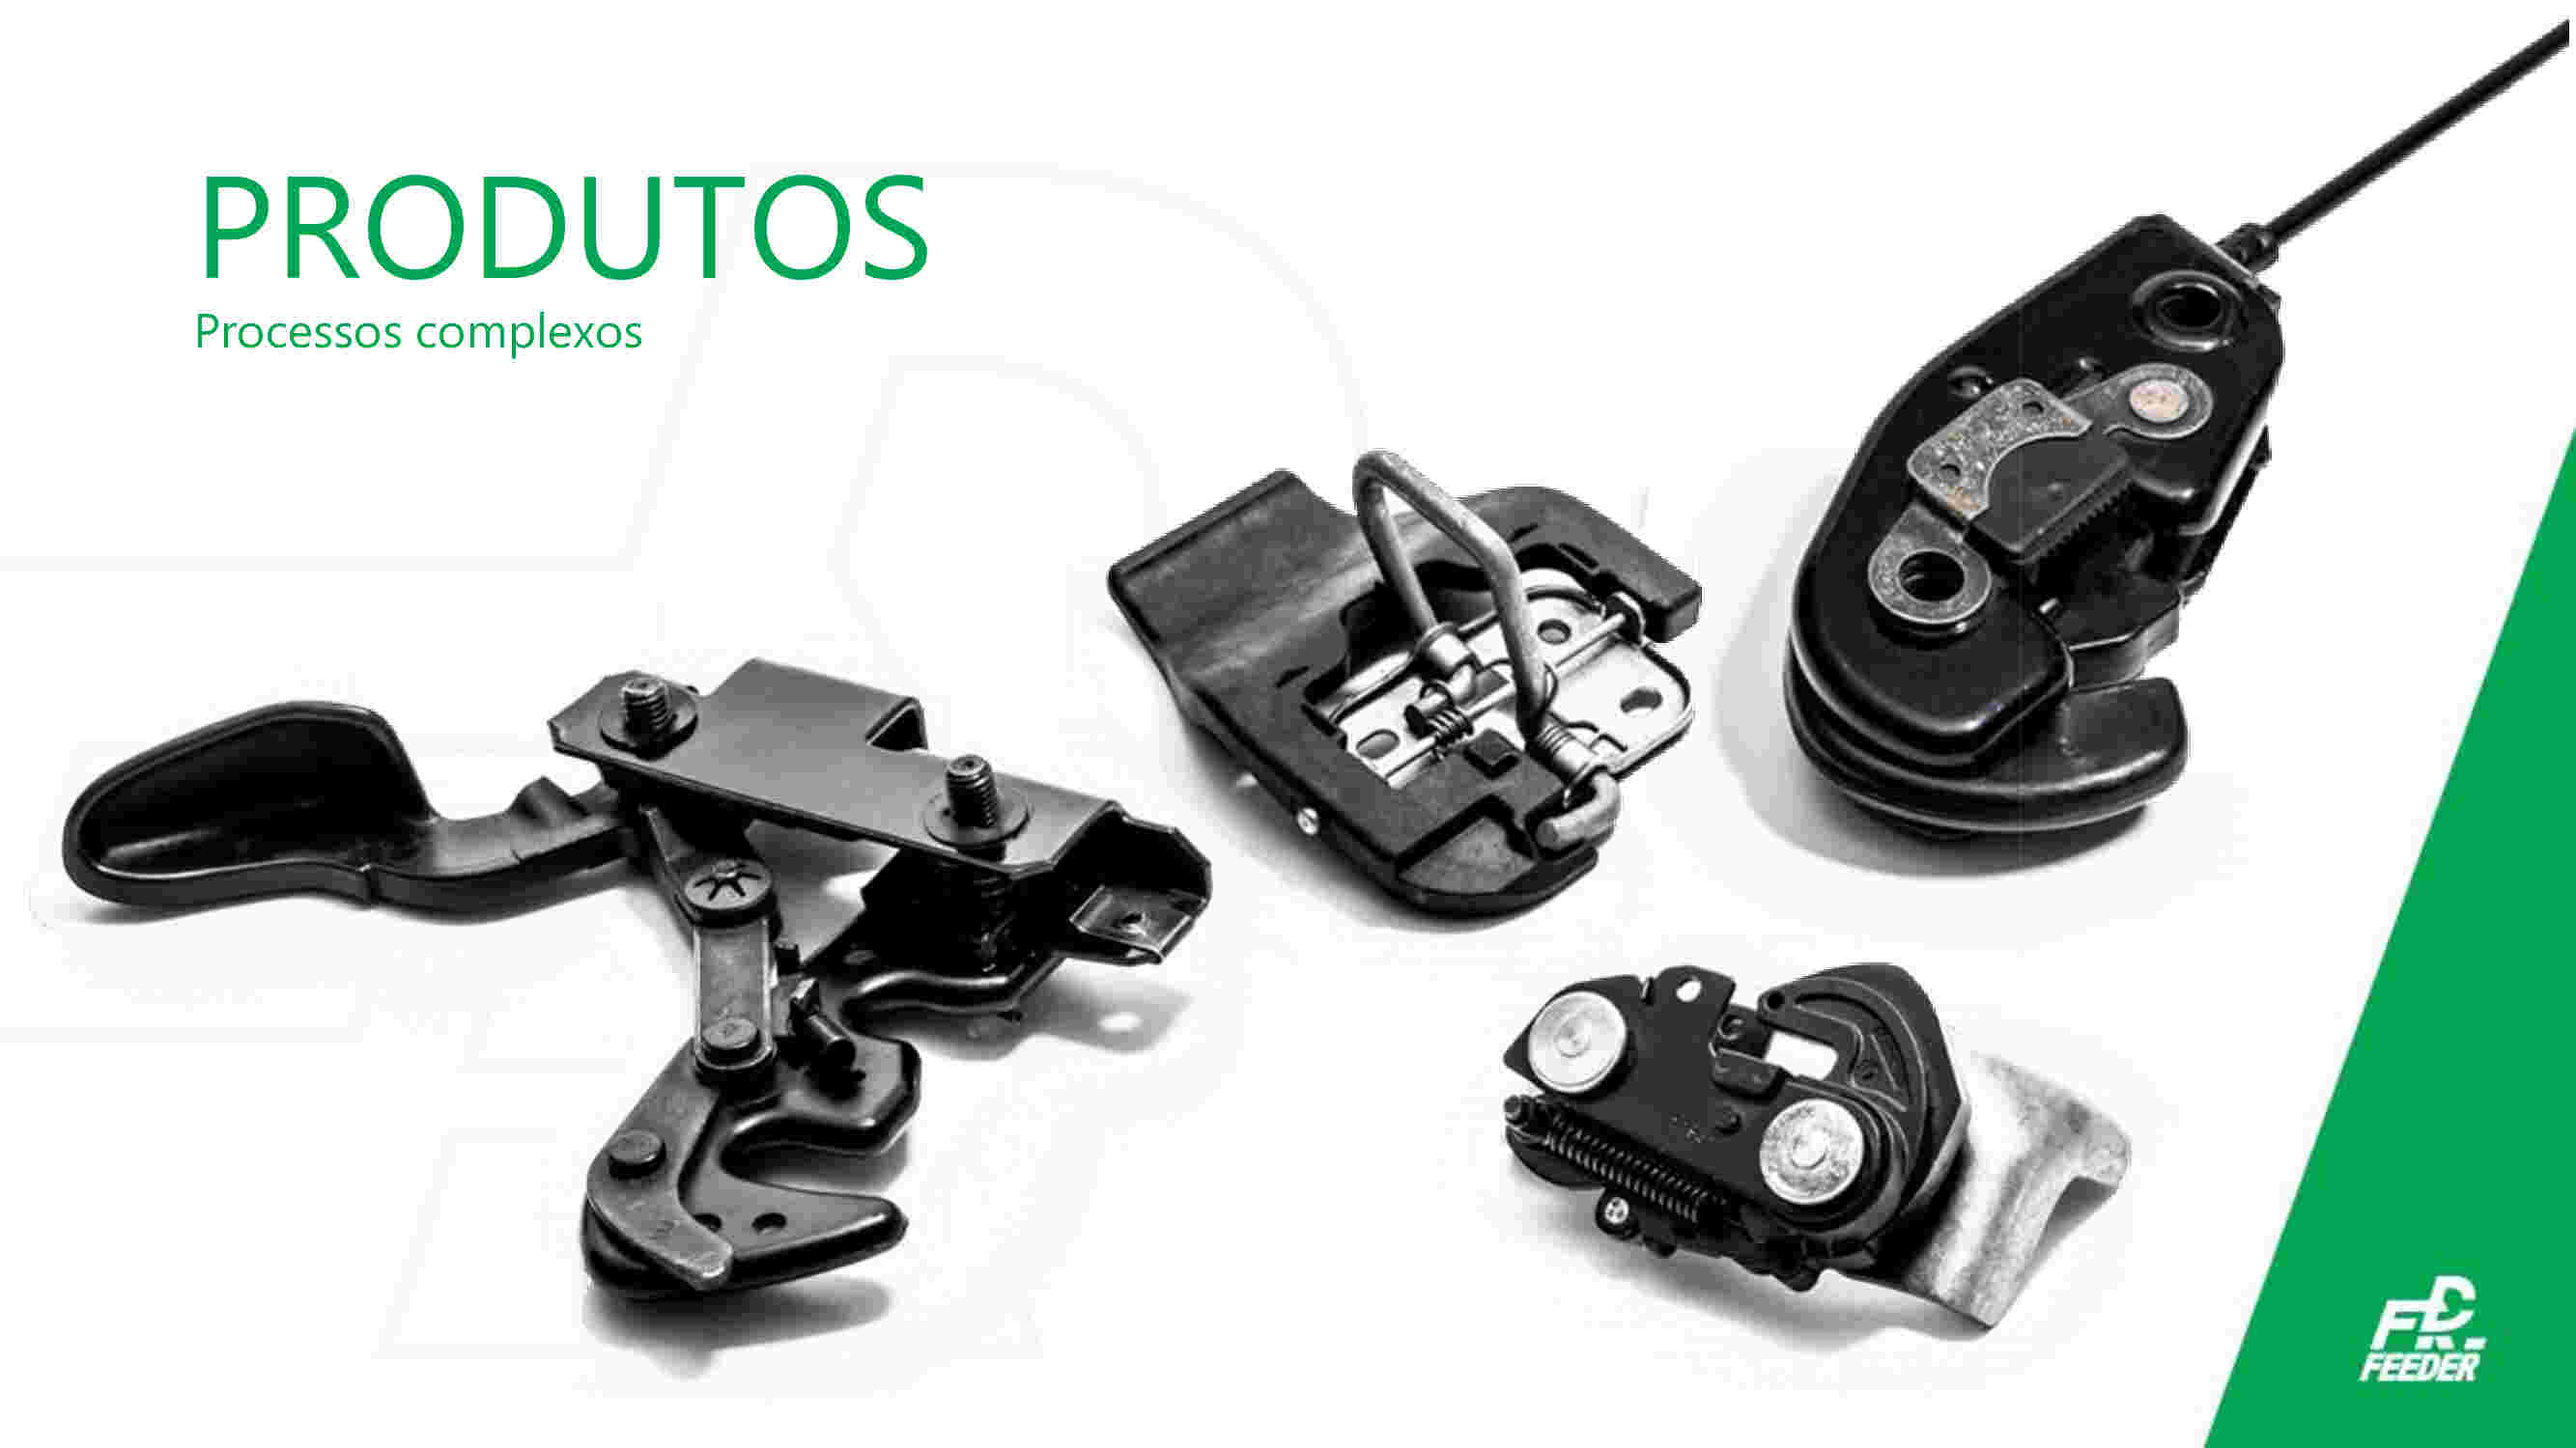
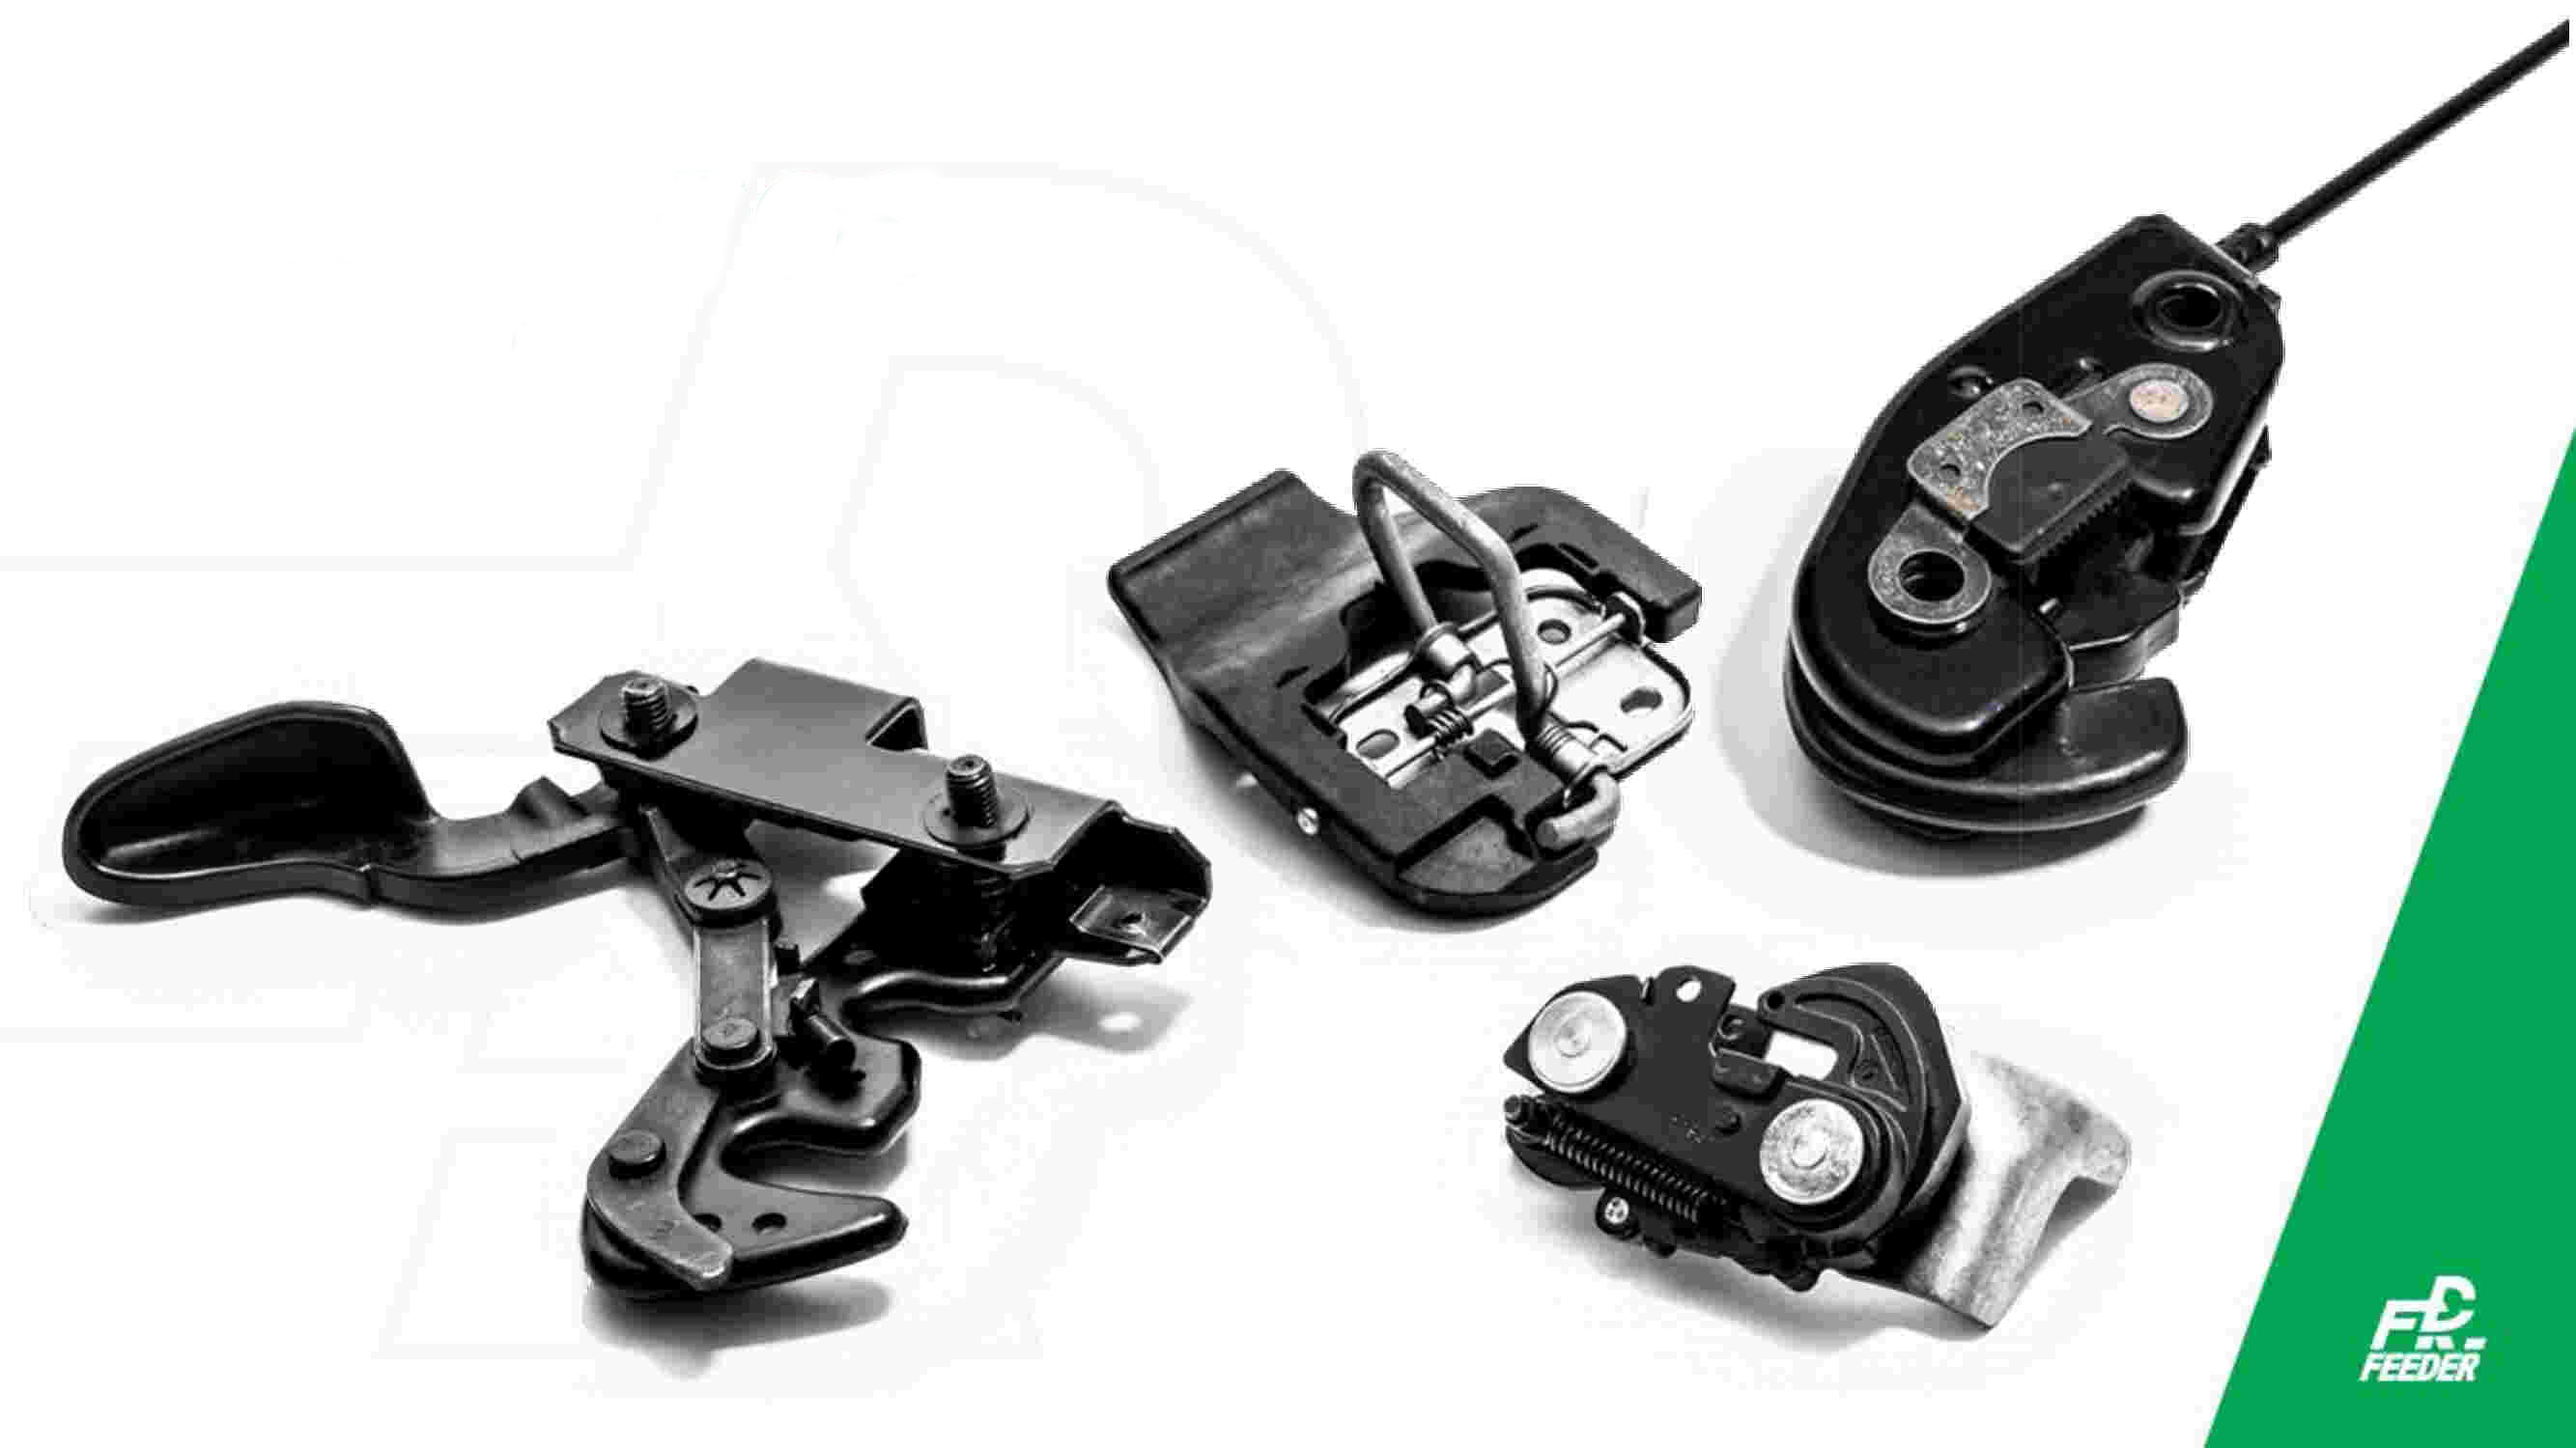
English images

Changed region(s): [[0.0622, 0.1227, 0.3735, 0.2453]]

diff --git a/frontend/src/components/Produtos.vue b/frontend/src/components/Produtos.vue
@@ -6,73 +6,131 @@
     <div class="py-4 px-2 md:px-8 mt-4 text-center">
       <span
         class="text-base md:text-xl font-bold border-t border-b py-4 border-green-800 text-green-800"
-        ><span v-if="UseLang.store.lang == 'pt'">Tecnologia, qualidade e comprometimento</span>
+        ><span v-if="UseLang.store.lang == 'pt'"
+          >Tecnologia, qualidade e comprometimento</span
+        >
         <span v-else>Technology, quality, and commitment</span></span
       >
     </div>
-    <div class="flex flex-wrap px-12 mt-6">
-      <div class="w-full md:w-1/3 px-1">
-        <img
-          src="../assets/images/produtos/1.png"
-          class="mx-auto mt-1"
-          width="500"
-          height="500"
-          style="width: 100%"
-        />
+
+    <div class="flex flex-wrap px-12 mt-12">
+      <div class="w-full text-3xl mx-0 px-0 text-primary text-center">
+        <span v-if="UseLang.store.lang == 'pt'">Produtos</span
+        ><span v-else>Products</span>
       </div>
-      <div class="w-full md:w-1/3 px-1">
-        <img
-          src="../assets/images/produtos/2.png"
-          class="mx-auto mt-1"
-          width="500"
-          height="500"
-          style="width: 100%"
-        />
+      <div class="w-full md:w-1/3 p-4">
+        <div class="card px-1 bg-gray-50 shadow-md transition-transform transform-gpu hover:scale-105 hover:shadow-lg cursor-pointer">
+          <img
+            src="../assets/images/produtos/1.png"
+            class="card-img-top mx-auto mt-1"
+            alt="Product Image"
+            width="500"
+            height="500"
+            style="width: 100%"
+          />
+          <div class="card-body py-2 my-0 text-center">
+            <p class="card-text text-primary">
+              <span v-if="UseLang.store.lang == 'pt'">Processos complexos</span>
+              <span v-else>Complex processes</span>
+            </p>
+          </div>
+        </div>
       </div>
-      <div class="w-full md:w-1/3 px-1">
-        <img
-          src="../assets/images/produtos/3.png"
-          class="mx-auto mt-1"
-          width="500"
-          height="500"
-          style="width: 100%"
-        />
+      <div class="w-full md:w-1/3 p-4">
+        <div class="card px-1 bg-gray-50 shadow-md transition-transform transform-gpu hover:scale-105 hover:shadow-lg cursor-pointer">
+          <img
+            src="../assets/images/produtos/2.png"
+            class="card-img-top mx-auto mt-1"
+            alt="Product Image"
+            width="500"
+            height="500"
+            style="width: 100%"
+          />
+          <div class="card-body py-2 my-0 text-center">
+            <p class="card-text text-primary">
+              <span v-if="UseLang.store.lang == 'pt'">Dobra de tubo e arame</span>
+              <span v-else>Tube and wire bending</span>
+            </p>
+          </div>
+        </div>
       </div>
-      <div class="w-full md:w-1/3 px-1">
-        <img
-          src="../assets/images/produtos/4.png"
-          class="mx-auto mt-1"
-          width="500"
-          height="500"
-          style="width: 100%"
-        />
+      <div class="w-full md:w-1/3 p-4">
+        <div class="card px-1 bg-gray-50 shadow-md transition-transform transform-gpu hover:scale-105 hover:shadow-lg cursor-pointer">
+          <img
+            src="../assets/images/produtos/3.png"
+            class="card-img-top mx-auto mt-1"
+            alt="Product Image"
+            width="500"
+            height="500"
+            style="width: 100%"
+          />
+          <div class="card-body py-2 my-0 text-center">
+            <p class="card-text text-primary">
+              <span v-if="UseLang.store.lang == 'pt'">Enrolamento de mola</span>
+              <span v-else>Spring winding</span>
+            </p>
+          </div>
+        </div>
       </div>
-      <div class="w-full md:w-1/3 px-1">
-        <img
-          src="../assets/images/produtos/5.png"
-          class="mx-auto mt-1"
-          width="500"
-          height="500"
-          style="width: 100%"
-        />
+      <div class="w-full md:w-1/3 p-4">
+        <div class="card px-1 bg-gray-50 shadow-md transition-transform transform-gpu hover:scale-105 hover:shadow-lg cursor-pointer">
+          <img
+            src="../assets/images/produtos/4.png"
+            class="card-img-top mx-auto mt-1"
+            alt="Product Image"
+            width="500"
+            height="500"
+            style="width: 100%"
+          />
+          <div class="card-body py-2 my-0 text-center">
+            <p class="card-text text-primary">
+              <span v-if="UseLang.store.lang == 'pt'">Estamparia</span>
+              <span v-else>Stamping</span>
+            </p>
+          </div>
+        </div>
       </div>
-      <div class="w-full md:w-1/3 px-1">
-        <img
-          src="../assets/images/produtos/6.png"
-          class="mx-auto mt-1"
-          width="500"
-          height="500"
-          style="width: 100%"
-        />
+      <div class="w-full md:w-1/3 p-4">
+        <div class="card px-1 bg-gray-50 shadow-md transition-transform transform-gpu hover:scale-105 hover:shadow-lg cursor-pointer">
+          <img
+            src="../assets/images/produtos/5.png"
+            class="card-img-top mx-auto mt-1"
+            alt="Product Image"
+            width="500"
+            height="500"
+            style="width: 100%"
+          />
+          <div class="card-body py-2 my-0 text-center">
+            <p class="card-text text-primary">
+              <span v-if="UseLang.store.lang == 'pt'">Soldas</span>
+              <span v-else>Welding</span>
+            </p>
+          </div>
+        </div>
+      </div>
+      <div class="w-full md:w-1/3 p-4">
+        <div class="card px-1 bg-gray-50 shadow-md transition-transform transform-gpu hover:scale-105 hover:shadow-lg cursor-pointer">
+          <img
+            src="../assets/images/produtos/6.png"
+            class="card-img-top mx-auto mt-1"
+            alt="Product Image"
+            width="500"
+            height="500"
+            style="width: 100%"
+          />
+          <div class="card-body py-2 my-0 text-center">
+            <p class="card-text text-primary">
+              <span v-if="UseLang.store.lang == 'pt'">Processos complexos</span>
+              <span v-else> Complex processes</span>
+            </p>
+          </div>
+        </div>
       </div>
     </div>
 
     <div class="flex mt-1 justify-end">
       <div class="mt-4 mr-12">
-        <label
-          
-          class="btn animate-bounce"
-          @click="changeProdutos()"
+        <label class="btn animate-bounce" @click="changeProdutos()"
           ><span v-if="UseLang.store.lang == 'pt'">Mais Produtos</span>
           <span v-else>More products</span></label
         >
@@ -82,17 +140,17 @@
 </template>
 
 <script setup lang="ts">
-  import ProdutosModalVue from "./ProdutosModal.vue";
-  import { reactive } from "vue";
-  import UseLang from "../composables/lang"
+import ProdutosModalVue from "./ProdutosModal.vue";
+import { reactive } from "vue";
+import UseLang from "../composables/lang";
 
-  const state = reactive({
-    showProdutos: false,
-  });
-  function changeProdutos() {
-    console.log("JOi");
-    state.showProdutos = true;
-  }
+const state = reactive({
+  showProdutos: false,
+});
+function changeProdutos() {
+  console.log("JOi");
+  state.showProdutos = true;
+}
 </script>
 
 <style scoped></style>

diff --git a/frontend/src/components/Certificados.vue b/frontend/src/components/Certificados.vue
@@ -13,8 +13,16 @@
       <div class="w-full px-2">
         <div class="card md:w-1/3 bg-base-100 shadow-xl mt-6 mx-auto">
           <figure class="p-1">
-            <img
+            <img v-if="UseLang.store.lang == 'pt'"
               src="../assets/images/home/4.png"
+              alt="Shoes"
+              class="rounded-xl"
+              width="500"
+              height="500"
+              style="width: 100%"
+            />
+            <img v-else
+              src="../assets/images/home/en/4.png"
               alt="Shoes"
               class="rounded-xl"
               width="500"
